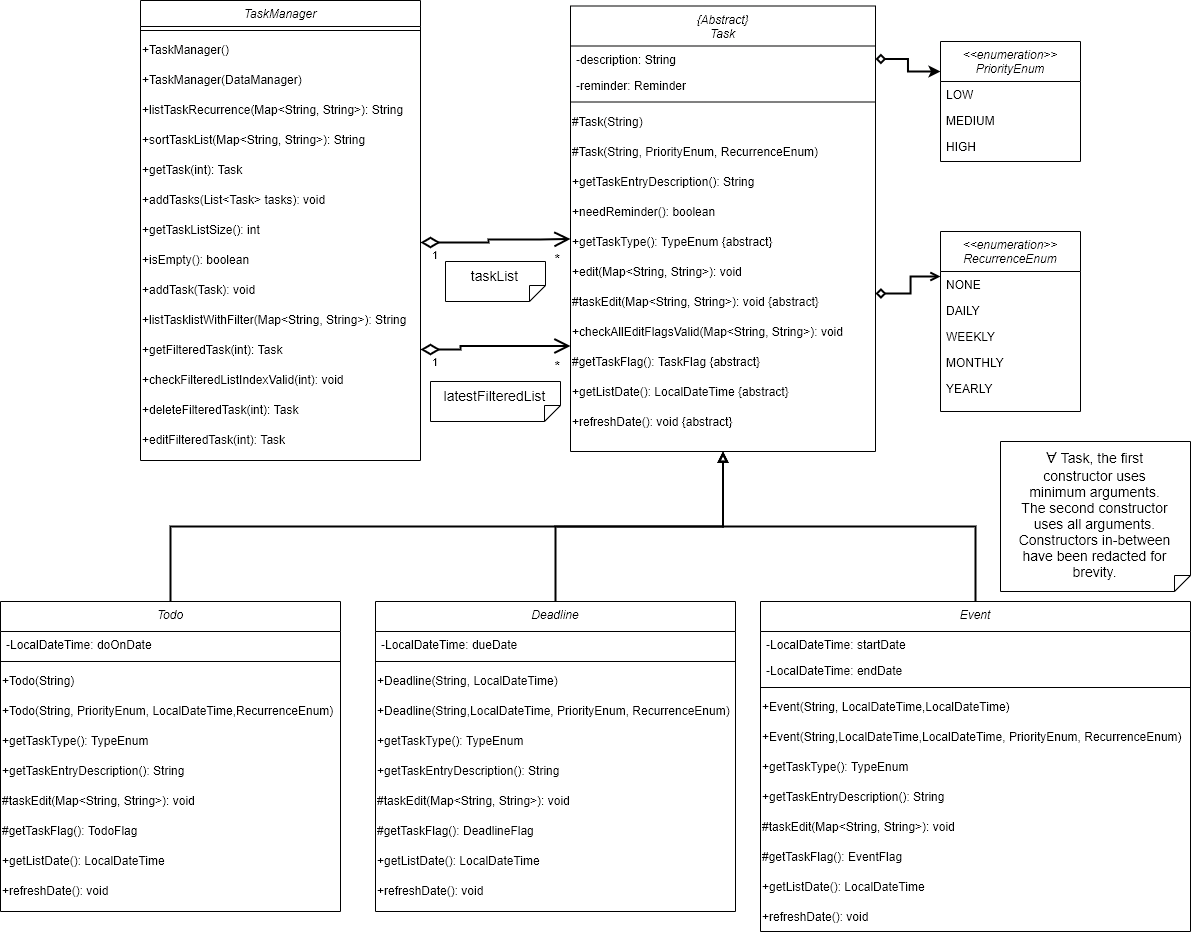
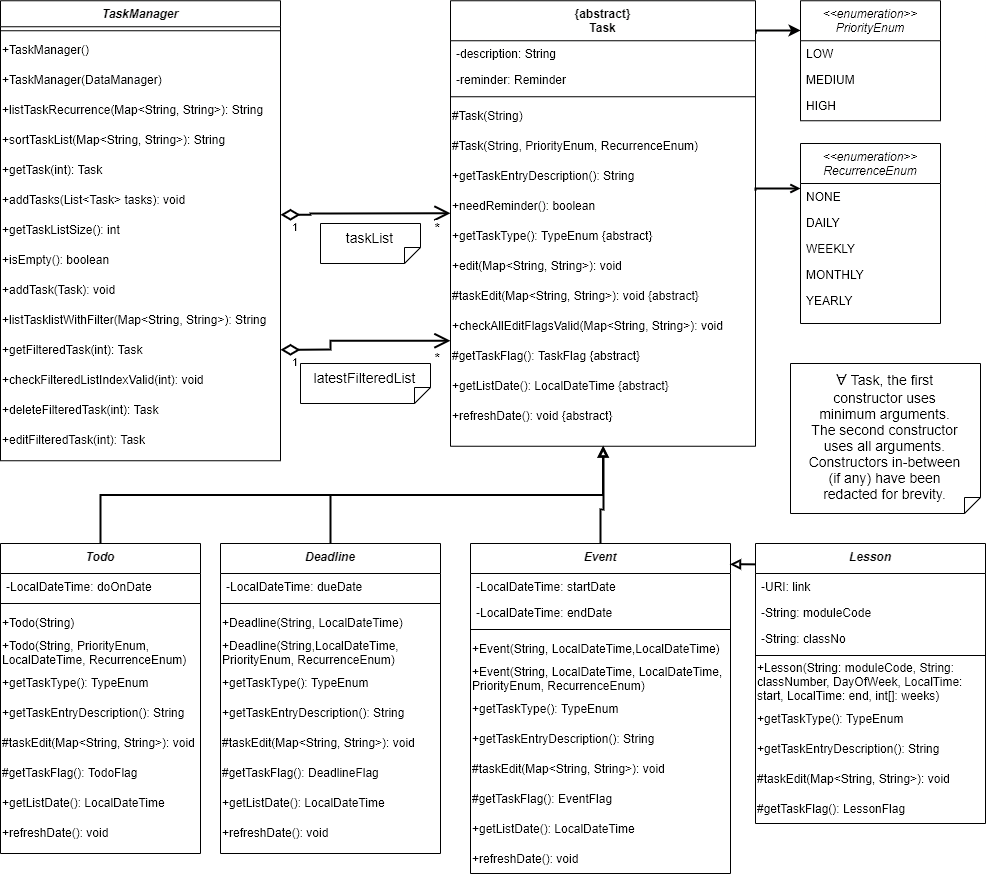
Change diagram and rename variables in Lesson

diff --git a/src/main/java/seedu/tp/task/type/Lesson.java b/src/main/java/seedu/tp/task/type/Lesson.java
@@ -39,21 +39,21 @@ public class Lesson extends Event {
         return this.TASK_TYPE;
     }
 
-    public void setModuleCode(String moduleCode) {
+    private void setModuleCode(String moduleCode) {
         this.moduleCode = moduleCode;
     }
 
     private String moduleCode;
 
-    public String getClassNo() {
-        return classNo;
+    public String getClassNumber() {
+        return classNumber;
     }
 
-    public void setClassNo(String classNo) {
-        this.classNo = classNo;
+    private void setClassNumber(String classNumber) {
+        this.classNumber = classNumber;
     }
 
-    private String classNo;
+    private String classNumber;
 
     @Override
     protected void taskEdit(Map<String, String> arguments) throws URISyntaxException {
@@ -62,22 +62,22 @@ public class Lesson extends Event {
         }
     }
 
-    public Lesson(String moduleCode, String classNo, DayOfWeek weekday, LocalTime start, LocalTime end, int[] weeks) {
-        super(moduleCode, Semester.getSemester().getStartingMonday().with(weekday).atTime(start),
-                Semester.getSemester().getStartingMonday().with(weekday).atTime(end),
+    public Lesson(String moduleCode, String classNumber, DayOfWeek dayOfWeek, LocalTime start, LocalTime end, int[] weeks) {
+        super(moduleCode, Semester.getSemester().getStartingMonday().with(dayOfWeek).atTime(start),
+                Semester.getSemester().getStartingMonday().with(dayOfWeek).atTime(end),
                 RecurrenceEnum.WEEKLY);
         setModuleCode(moduleCode);
-        setClassNo(classNo);
+        setClassNumber(classNumber);
         setOccurrences(weeks);
     }
 
-    public void setOccurrences(int[] occurrences) {
+    private void setOccurrences(int[] occurrences) {
         this.occurrences = occurrences;
     }
 
     @Override
     public String getTaskEntryDescription() {
-        return LESSON_ICON + " " + this.getModuleCode() + ' ' + this.getClassNo() + ": "
+        return LESSON_ICON + " " + this.getModuleCode() + ' ' + this.getClassNumber() + ": "
                 + DateParser.dateToString(getStartDate())
                 + " to " + DateParser.dateToString(getEndDate());
     }
